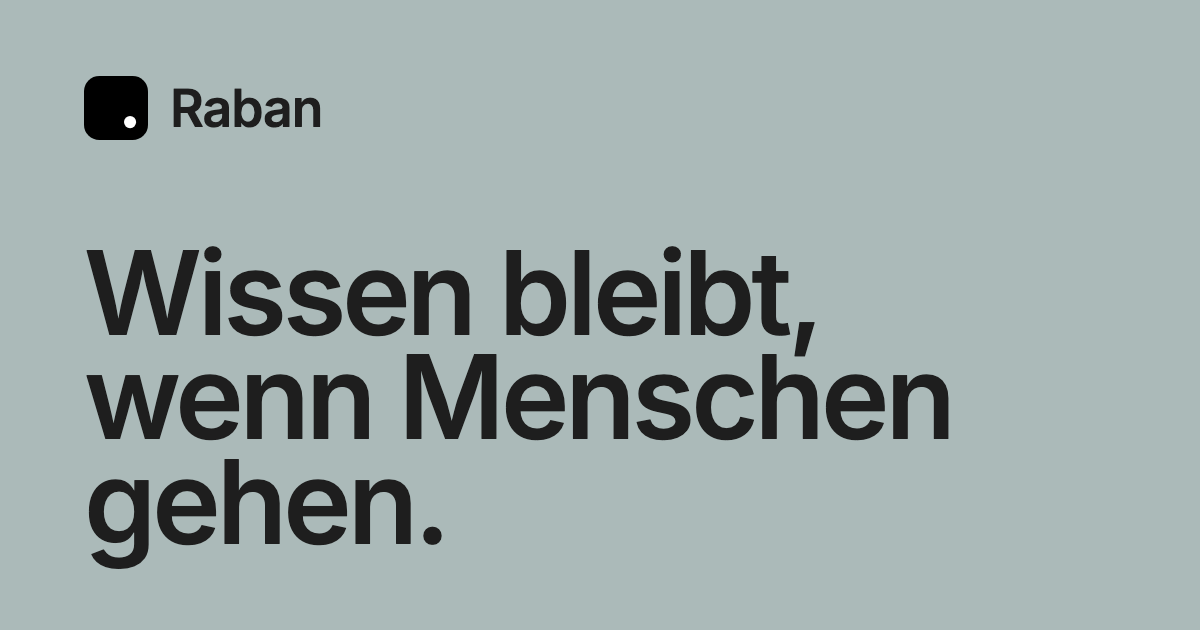
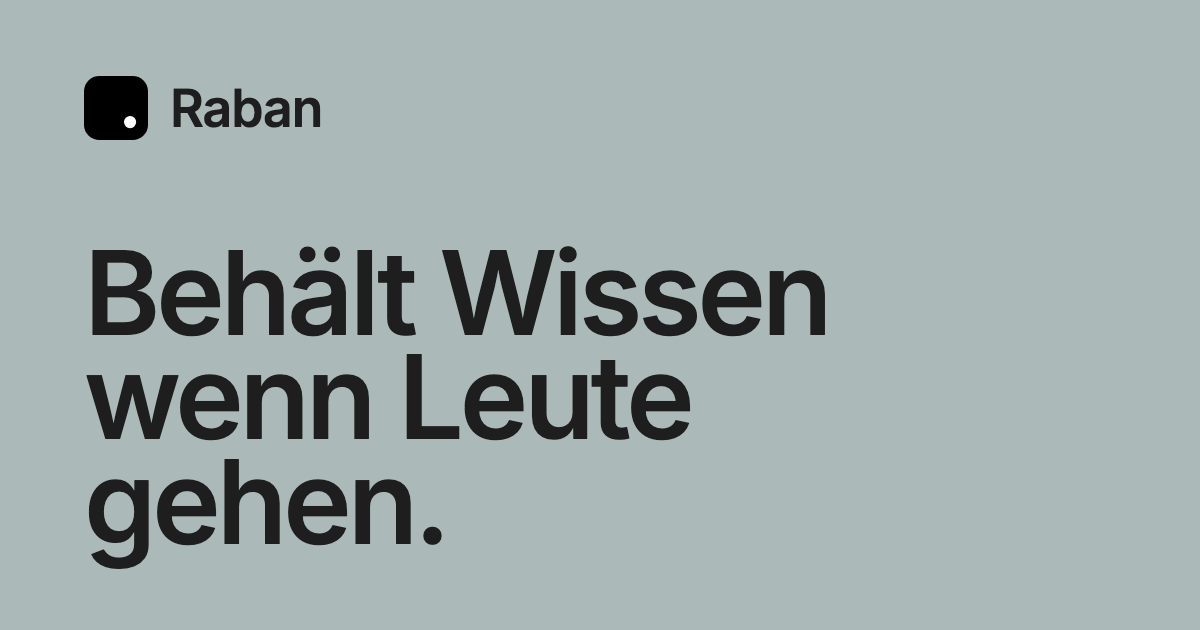
Leitsatz „Behält Wissen / wenn Leute / gehen.“ in drei festen Zeilen
Hero und Vorschaukarte, Deutsch und Englisch („Keeps knowledge / when
people / leave.“). Auf schmalen Handys wird die Schrift nur so klein, dass
die längste Zeile passt (gemessen 320–1728 px, SF und Inter).

Changed region(s): [[0.0617, 0.3921, 0.8017, 0.7238]]

diff --git a/app/(public)/page.tsx b/app/(public)/page.tsx
@@ -23,7 +23,8 @@ import { BODY, DISPLAY, LABEL, SECTION } from "../components/type";
 // the founders sign it off; the app is addressed with "Du", as inside the app.
 const T = {
   de: {
-    lede: "Wissen bleibt, wenn Menschen gehen.",
+    lede: "Behält Wissen\nwenn Leute\ngehen.",
+    ledeEm: 6.5,
     deck: "Frag Raban, und du bekommst die Antwort aus euren Unterlagen, mit Fundstelle. Steht sie nirgends, fragt Raban den Menschen, der es weiß.",
     why: {
       label: "Warum Raban",
@@ -132,7 +133,8 @@ const T = {
     },
   },
   en: {
-    lede: "Keeps knowledge when people leave.",
+    lede: "Keeps knowledge\nwhen people\nleave.",
+    ledeEm: 8.3,
     deck: "Ask Raban and get the answer from your company's documents, with the source. If it isn't written down anywhere, Raban asks the person who knows.",
     why: {
       label: "Why Raban",
@@ -289,9 +291,15 @@ export default async function HomePage() {
           it to the bottom of the first screen as a flex column. */}
       <div className="absolute inset-x-[var(--gutter)] top-[var(--tagline-top)] z-10 flex min-h-[calc(100svh-var(--tagline-top))] flex-col">
         {/* Lede: typesafe's display type — medium weight, leading under 1,
-            tight tracking — sized to the viewport between 48px and 136px and
-            measured in characters so the block keeps its shape. */}
-        <h1 className="max-w-[min(100%,11ch)] text-[clamp(3rem,8.6vw,8.5rem)] font-medium leading-[0.86] tracking-[-0.035em] [&:lang(en)]:capitalize">
+            tight tracking — sized to the viewport between 48px and 136px. It
+            is set in three fixed lines (Johannes, 2026-09-30), so on a narrow
+            phone the size also stops where the longest line still fits the
+            width: ledeEm is that line in em, measured in Inter, the wider of
+            the two faces (SF needs about 9% less). */}
+        <h1
+          className="text-[length:min(clamp(3rem,8.6vw,8.5rem),calc((100vw-2*var(--gutter))/var(--lede-em)))] font-medium leading-[0.86] tracking-[-0.035em] whitespace-pre-line [&:lang(en)]:capitalize"
+          style={{ "--lede-em": t.ledeEm } as React.CSSProperties}
+        >
           {t.lede}
         </h1>
         {/* Deck: pinned to the bottom-right corner of the first screen, set

diff --git a/app/layout.tsx b/app/layout.tsx
@@ -16,7 +16,7 @@ const PREVIEW = {
     title: "Raban – Wissen was bleibt",
     description:
       "Frag Raban, und du bekommst die Antwort aus euren Unterlagen, mit Fundstelle. Steht sie nirgends, fragt Raban den Menschen, der es weiß.",
-    alt: "Raban. Wissen bleibt, wenn Menschen gehen.",
+    alt: "Raban. Behält Wissen wenn Leute gehen.",
     ogLocale: "de_DE",
   },
   en: {
